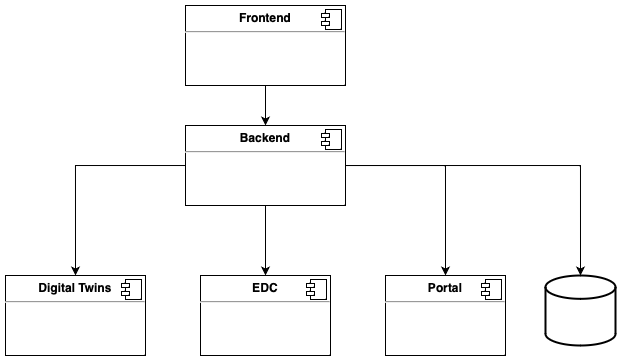
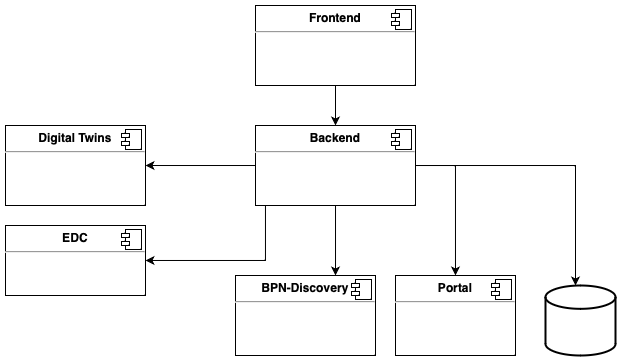
A1SDS-2583: arc42 updates

diff --git a/docs/Arc42.md b/docs/Arc42.md
@@ -62,6 +62,7 @@ In order to allow Data Providers and Data Consumers to easily participate in rel
 - Utilization of EDC to provide data and consume data.
 - Integration with Portal Service to validate BPN's Numbers as well as get the Connectors URL details of companies.
 - Integration Keycloak authentication for security.
+- Integration BPN Discovery service to support decentralized DTR.
 
 <br />
 
@@ -109,7 +110,8 @@ The following table illustrates the stakeholders of SDE and their respective int
 |---------------------------------------	|-------------------------------------------------------------------------------------------------------------------------------------	|
 | Usage of EDC                          	| Mandatory in Catena-X to ensure data sovereignty for participating companies                                                        	|
 | Deployment via helm in <br>Kubernetes 	| The deployment is done in a Catena.X environment. To do so, the SDE must be able to run in a Kubernetes environment via Helm Charts 	|
-| Catena-X Digital Twin Registry        	| Mandatory in Catena-X, central lookup for all digital twins                                                                         	|
+| Catena-X Digital Twin Registry        	| Mandatory in Catena-X, decentral lookup for all digital twins        |
+| Catena-X BPN-Discovery                    | Mandatory in Catena-X, Push key for lookup all digital twins.                                   	|
 
 <br />
 
@@ -121,6 +123,7 @@ The following table illustrates the stakeholders of SDE and their respective int
 |----------------------	|--------------------------------	|-----------	|
 | Business             	| User via Webapp to upload file 	| Webapp    	|
 | Technical            	| Digital twin registry          	| Https     	|
+| Technical            	| BPN Discovery                   	| Https     	|
 
 <br />
 
@@ -131,6 +134,7 @@ The following table illustrates the stakeholders of SDE and their respective int
 | EDC connector for external communication 	| EDC/IDS        	|
 | Digital twin registry                    	| HTTPs          	|
 | Portal Service                        	| HTTPs          	|
+| BPN Discovery                         	| HTTPs          	|
 | File Upload (CSV)                        	| HTTPs endpoint 	|
 
 <br />
@@ -170,6 +174,7 @@ Its having 2 components:
 | Backend       	| Service that contains the REST api to support the Frontend and the execution pipeline to process the sub models 	|
 | EDC           	| Eclipse data connector acting as data provider and data consumer to retrieve sub model's details                	|
 | Digital Twins 	| Rest API that allows to register a sub model                                                                    	|
+| BPN Discovery 	| Rest API that allows to push and search Key value for DT shell lookup details.                                                                    	|
 
 <br />
 
@@ -183,7 +188,7 @@ There is a web interface between frontend and backend.<br /><br />
 
 Detailed API specs available under:
 
-[https://github.com/eclipse-tractusx/dft-backend/blob/main/modules/sde-core/src/main/resources/sde-open-api.yml](https://github.com/eclipse-tractusx/dft-backend/blob/main/modules/sde-core/src/main/resources/sde-open-api.yml)
+[https://github.com/catenax-ng/tx-managed-simple-data-exchanger-backend/blob/main/modules/sde-core/src/main/resources/sde-open-api.yml](https://github.com/catenax-ng/tx-managed-simple-data-exchanger-backend/blob/main/modules/sde-core/src/main/resources/sde-open-api.yml)
 
 
 Backend API Swagger-ui : (https://[domain_name]/api/swagger-ui/index.html)
@@ -191,7 +196,7 @@ Backend API Swagger-ui : (https://[domain_name]/api/swagger-ui/index.html)
 
 ### **Data processing pipelines**
 
-#### **Serial Part Typization**
+#### **Serial Part**
 
 <br /><br /><img src="images/serial_part_typization_dft_data_pipeline.png" height="60%" width="60%" /><br /><br />
 
@@ -202,12 +207,13 @@ Backend API Swagger-ui : (https://[domain_name]/api/swagger-ui/index.html)
 | MapFromAspectRequest 	| Convert from the AspectRequest object to an Aspect dto.<br>It also validate the mandatory fields are fulfilled.                                                                                                                                                                                                                                                                                                                                                                                                         	| 1               	|
 | GenerateUUId         	| Check if Aspect have a non null and non blank uuid. If not it will generate one UUID with the defined prefix "urn:uuid:".                                                                                                                                                                                                                                                                                                                                                                                               	| 2               	|
 | DigitalTwinsAspect   	| Do the interface in the Digital Twins registry.<br><br>- It will lookup for shells and if no shell is found it will create one;<br>- If a single shell exists for the given key it will use that shell;<br>- If multiple shell are found it will through an exception;<br>- It will lookup for sub models. If no sub model is found it will create one;<br>- If a sub model is found it will set the Aspect with that sub model id;<br><br><br>Please note that a shell can only have two sub models at the time being. 	| 3               	|
-| EDCAspect            	| Do the interface in the Eclipse Data Connector (EDC)<br><br>- It will lookup for a previous registry;<br>- If no registry is found it will create an asset plus a default policy and contract definition;                                                                                                                                                                                                                                                                                                               	| 4               	|
-| StoreAspect          	| Store the Aspect in the SDE database.                                                                                                                                                                                                                                                                                                                                                                                                                                                                                   	| 5               	|
+| EDCAspect            	| Do the interface in the Eclipse Data Connector (EDC)<br><br>- It will lookup for a previous asset registry;<br>- If no asset registry is found it will create an asset with a applied OR default policy and contract definition;                                                                                                                                                                                                                                                                                                               	| 4               	|
+| BPNDiscovery          	| Push Key of Aspect asset into the BPN Discovery for DDTR lookup.                                                                                                                                                                                                                                                                                                                                                                                                                                                            	| 5               	|
+| StoreAspect          	| Store the Aspect in the SDE database.                                                                                                                                                                                                                                                                                                                                                                                                                                                                                   	| 6               	|
 
 <br />
 
-#### **Assembly Part Relationship**
+#### **Single Level BoM As Built**
 
 <br /><br /><img src="images/aspect_relationship_dft_data_pipeline.png" height="60%" width="60%" /><br /><br />
 
@@ -218,8 +224,9 @@ Backend API Swagger-ui : (https://[domain_name]/api/swagger-ui/index.html)
 | MapFromAspectRelationshipRequest 	| Convert from the AspectRelationshipRequest object to an Aspect Relationship dto.<br><br>It also validate the mandatory fields are fulfilled.                                                                                                                                                                                                                                                                                                                                                                                     	| 1               	|
 | FetchCatenaXId                   	| Check if Aspect Relationship have a non null and non blank parent uuid and child uuid. <br><br>- Lookup call with Digital Twins for both parent and child aspect else parent or child not found will be thrown;<br>- If parent and child are found both uuid will be set on the Aspect Relationship;<br>- If parent or child are not found an exception will be thrown;                                                                                                                                                                                                                                                                          	| 2               	|
 | DigitalTwinsAspectRelationship   	| Do the interface in the Digital Twins registry.<br><br>- It will lookup for shells and if no shell is found it will create one;<br>- If a single shell exists for the given key it will use that shell;<br>- If multiple shell are found it will through an exception;<br>- It will lookup for sub models. If no sub model is found it will create one;<br>- If a sub model is found it will set the Aspect Relationship with that sub model id;<br><br>Please note that a shell can only have two sub models at the time being. 	| 3               	|
-| EDCAspectRelationship            	| Do the interface in the Eclipse Data Connector (EDC)<br><br>- It will lookup for a previous registry;<br>- If no registry is found it will create an asset plus a default policy and contract definition;                                                                                                                                                                                                                                                                                                                        	| 4               	|
-| StoreAspectRelationship          	| Store the Aspect Relationship in the SDE database.                                                                                                                                                                                                                                                                                                                                                                                                                                                                               	| 5               	|
+| EDCAspectRelationship            	| Do the interface in the Eclipse Data Connector (EDC)<br><br>- It will lookup for a previous asset registry;<br>- If no asset registry is found it will create an asset plus a default policy and contract definition;                                                                                                                                                                                                                                                                                                                        	| 4               	|
+| BPNDiscovery          	| Push Key of Aspect asset into the BPN Discovery for DDTR lookup.                                                                                                                                                                                                                                                                                                                                                                                                                                                                               	| 5               	|
+| StoreAspectRelationship          	| Store the Aspect Relationship in the SDE database.                                                                                                                                                                                                                                                                                                                                                                                                                                                                               	| 6               	|
 
 <br />
 
@@ -235,7 +242,8 @@ Backend API Swagger-ui : (https://[domain_name]/api/swagger-ui/index.html)
 | GenerateUUId        	| Check if Batch have a non null and non blank uuid. If not it will generate one UUID with the defined prefix "urn:uuid:".                                                                                                                                                                                                                                                                                                                                                                                           	| 2               	|
 | DigitalTwinsAspect  	| Do the interface in the Digital Twins registry.<br><br>- It will lookup for shells and if no shell is found it will create one;<br>- If a single shell exists for the given key it will use that shell;<br>- If multiple shell are found it will through an exception;<br>- It will lookup for sub models. If no sub model is found it will create one;<br>- If a sub model is found it will set the Batch with that sub model id;<br><br>Please note that a shell can only have two sub models at the time being. 	| 3               	|
 | EDCBatch            	| Do the interface in the Eclipse Data Connector (EDC)<br><br>- It will lookup for a previous registry;<br>- If no registry is found it will create an asset plus a default policy and contract definition;                                                                                                                                                                                                                                                                                                          	| 4               	|
-| StoreBatch          	| Store the Batch in the SDE database.                                                                                                                                                                                                                                                                                                                                                                                                                                                                               	| 5               	|
+| BPNDiscovery          	| Push Key of Aspect asset into the BPN Discovery for DDTR lookup.                                                                                                                                                                                                                                                                                                                                                                                                                                                                               	| 5               	|
+| StoreBatch          	| Store the Batch in the SDE database.                                                                                                                                                                                                                                                                                                                                                                                                                                                                               	| 6               	|
 
 <br />
 
@@ -250,7 +258,7 @@ Backend API Swagger-ui : (https://[domain_name]/api/swagger-ui/index.html)
 | MapFromPartAsPlannedRequest 	| Convert from the PartAsPlannedRequest object to an PartAsPlanned dto.<br><br>It also validate the mandatory fields are fulfilled.                                                                                                                                                                                                                                                                                                                                                                                                      	| 1               	|
 | GenerateUUId                	| Check if PartAsPlanned have a non null and non blank uuid. If not it will generate one UUID with the <br>defined prefix "urn:uuid:".                                                                                                                                                                                                                                                                                                                                                                                                   	| 2               	|
 | DigitalTwinsPartAsPlanned   	| Do the interface in the Digital Twins registry.<br><br> - It will lookup for shells and if no shell is found it will create one;<br> - If a single shell exists for the given key it will use that shell;<br> - If multiple shell are found it will throw an exception;<br> - It will lookup for sub models. <br> - If no sub model is found it will create one;<br> - If a sub model is found it will set the PartAsPlanned with that sub model id;<br><br>Please note that a shell can only have two sub models at the time being. 	| 3               	|
-| EDCPartAsPlanned            	| Do the interface in the Eclipse Data Connector (EDC)<br><br> - It will lookup for a previous registry;<br> - If no registry is found it will create an asset plus a default policy and contract definition;                                                                                                                                                                                                                                                                                                                            	| 4               	|
+| EDCPartAsPlanned            	| Do the interface in the Eclipse Data Connector (EDC)<br><br> - It will lookup for a previous asset registry;<br> - If no asset registry is found it will create an asset with a applied OR default policy and contract definition;                                                                                                                                                                                                                                                                                                                            	| 4               	|
 | StorePartAsPlanned          	| Store the PartAsPlanned in the SDE database.                                                                                                                                                                                                                                                                                                                                                                                                                                                                                           	| 5               	|
 <br />
 
@@ -264,7 +272,7 @@ Backend API Swagger-ui : (https://[domain_name]/api/swagger-ui/index.html)
 | MapFromSingleLevelBoMAsPlannedRequest 	| Convert from the SingleLevelBoMAsPlanned Request object to an SingleLevelBoMAsPlanned dto.<br><br>It also validate the mandatory fields are fulfilled.                                                                                                                                                                                                                                                                                                                                                                                         	| 1               	|
 | GenerateUUId                          	| Check if SingleLevelBoMAsPlanned have a non null and non blank uuid. <br><br>If not it will generate one UUID with the defined prefix "urn:uuid:".                                                                                                                                                                                                                                                                                                                                                                                             	| 2               	|
 | DigitalTwinsSingleLevelBoMAsPlanned   	| Do the interface in the Digital Twins registry.<br><br> - It will lookup for shells and if no shell is found it will create one;<br> - If a single shell exists for the given key it will use that shell;<br> - If multiple shell are found it will throw an exception;<br> - It will lookup for sub models. <br> - If no sub model is found it will create one;<br> - If a sub model is found it will set the SingleLevelBoMAsPlanned with that sub model id;<br><br>Please note that a shell can only have two sub models at the time being. 	| 3               	|
-| EDCSingleLevelBoMAsPlanned            	| Do the interface in the Eclipse Data Connector (EDC)<br><br> - It will lookup for a previous registry;<br> - If no registry is found it will create an asset plus a default policy and contract definition;                                                                                                                                                                                                                                                                                                                                    	| 4               	|
+| EDCSingleLevelBoMAsPlanned            	| Do the interface in the Eclipse Data Connector (EDC)<br><br> - It will lookup for a previous asset registry;<br> - If no asset registry is found it will create an asset with a applied OR default policy and contract definition;                                                                                                                                                                                                                                                                                                                                    	| 4               	|
 | StoreSingleLevelBoMAsPlanned          	| Store the SingleLevelBoMAsPlanned in the SDE database.                                                                                                                                                                                                                                                                                                                                                                                                                                                                                         	| 5               	|
 <br />
 
@@ -277,7 +285,7 @@ Backend API Swagger-ui : (https://[domain_name]/api/swagger-ui/index.html)
 | MapFromPartSiteInformationAsPlannedRequest 	| Convert from the PartSiteInformationAsPlannedRequest object to PartSiteInformationAsPlanned dto.<br><br>It also validate the mandatory fields are fulfilled.                                                                                                                                                                                                                                                                                                                                                                                        	| 1               	|
 | GenerateUUId                               	| Check if PartSiteInformationAsPlanned have a non null and non blank uuid. <br><br>If not it will generate one UUID with the defined prefix "urn:uuid:".                                                                                                                                                                                                                                                                                                                                                                                             	| 2               	|
 | DigitalTwinsPartSiteInformationAsPlanned   	| Do the interface in the Digital Twins registry.<br><br> - It will lookup for shells and if no shell is found it will create one;<br> - If a single shell exists for the given key it will use that shell;<br> - If multiple shell are found it will throw an exception;<br> - It will lookup for sub models. <br> - If no sub model is found it will create one;<br> - If a sub model is found it will set the PartSiteInformationAsPlanned with that sub model id;<br><br>Please note that a shell can only have two sub models at the time being. 	| 3               	|
-| EDCPartSiteInformationAsPlanned            	| Do the interface in the Eclipse Data Connector (EDC)<br><br> - It will lookup for a previous registry;<br> - If no registry is found it will create an asset plus a default policy and contract definition;                                                                                                                                                                                                                                                                                                                                         	| 4               	|
+| EDCPartSiteInformationAsPlanned            	| Do the interface in the Eclipse Data Connector (EDC)<br><br> - It will lookup for a previous asset registry;<br> - If no registry is found it will create an asset with a applied OR default policy and contract definition;                                                                                                                                                                                                                                                                                                                                         	| 4               	|
 | StorePartSiteInformationAsPlanned          	| Store the PartSiteInformationAsPlanned in the SDE database.                                                                                                                                                                                                                                                                                                                                                                                                                                                                                         	| 5               	|
 <br />
 
